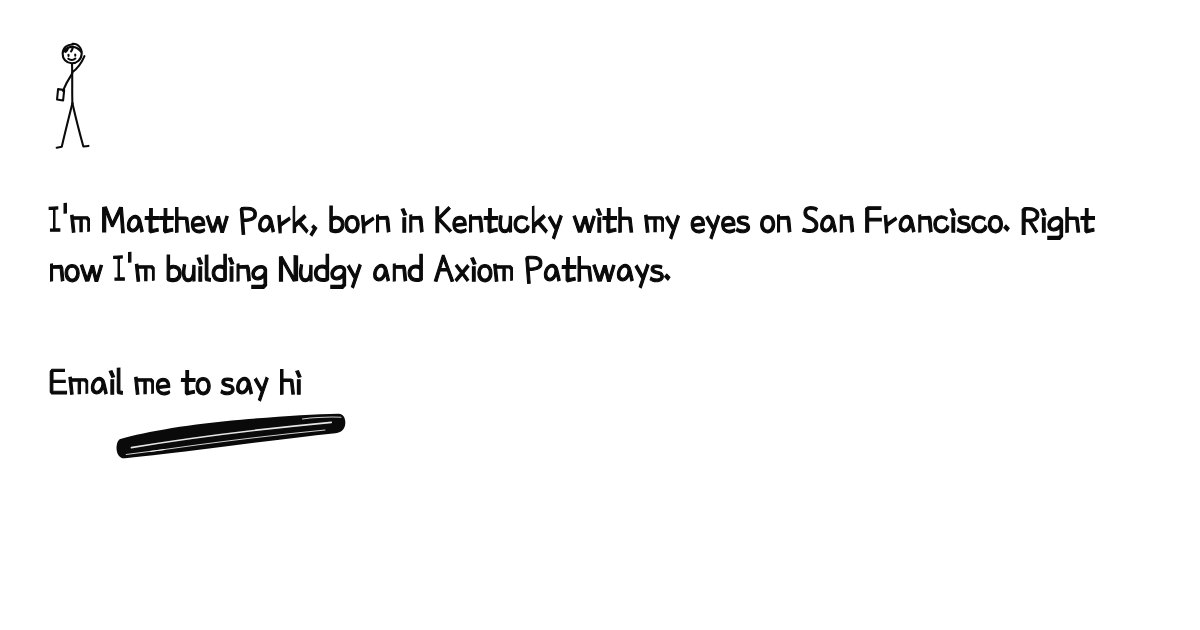
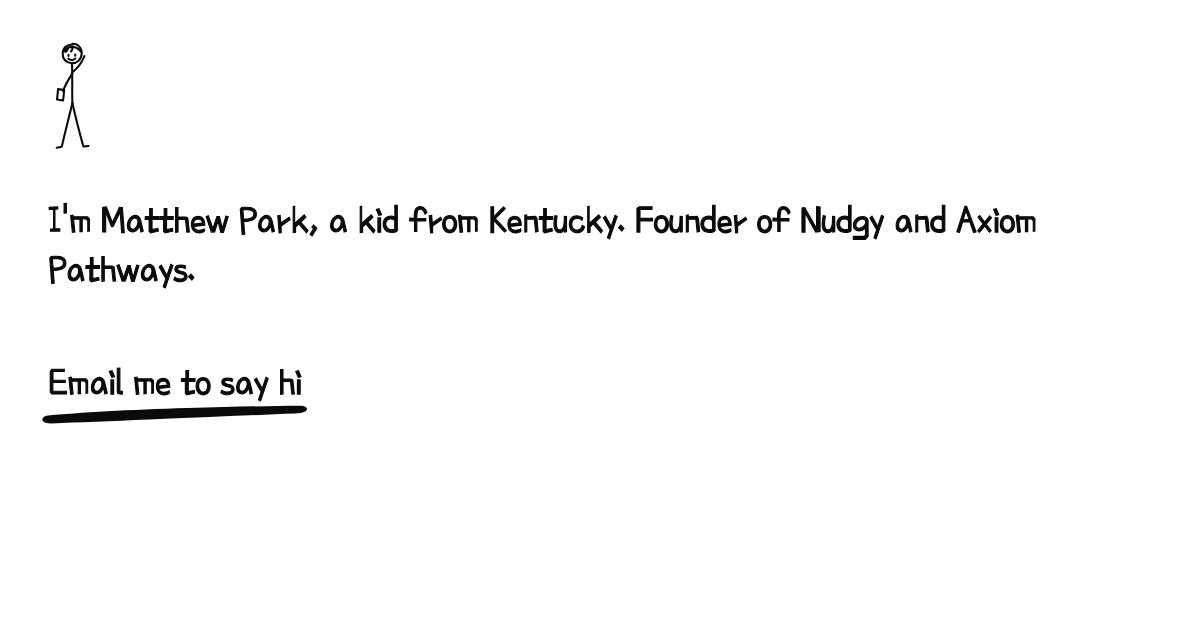
Lead: a 15-year-old kid from Kentucky, founder of Nudgy and Axiom Pathways
The age counts up from his birthday on each visit. The CTA's brush is now
a plain marker swipe under the whole label, clear of the descenders.

Changed region(s): [[0.0308, 0.3317, 0.925, 0.4524], [0.0308, 0.6333, 0.3083, 0.7238]]

diff --git a/src/simple/content.js b/src/simple/content.js
@@ -7,8 +7,22 @@ export const EMAIL = 'matthew.parkk0@gmail.com'
 // written out the way Instinct and Noah Shinn do it, so scrapers skip it
 export const EMAIL_SPOKEN = 'matthew.parkk0[at]gmail[dot]com'
 
-export const lead =
-  "I'm Matthew Park, born in Kentucky with my eyes on San Francisco. I build things people use, and right now I'm building two of them."
+const BIRTHDAY = new Date(2010, 9, 12) // 12 Oct 2010
+
+// counted on each visit, so "15-year-old" turns 16 on its own
+function ageToday(now = new Date()) {
+  const hadBirthday =
+    now.getMonth() > BIRTHDAY.getMonth() ||
+    (now.getMonth() === BIRTHDAY.getMonth() && now.getDate() >= BIRTHDAY.getDate())
+  return now.getFullYear() - BIRTHDAY.getFullYear() - (hadBirthday ? 0 : 1)
+}
+
+export const AGE = ageToday()
+
+export const lead = `I'm Matthew Park, a ${AGE}-year-old kid from Kentucky. Founder of Nudgy and Axiom Pathways.`
+
+// the same line for B's Contact block, where his name is already the heading
+export const tagline = `A ${AGE}-year-old kid from Kentucky. Founder of Nudgy and Axiom Pathways.`
 
 export const building = [
   {

diff --git a/src/simple/Doodles.jsx b/src/simple/Doodles.jsx
@@ -44,8 +44,7 @@ export function SelfDoodle({ className = '' }) {
   )
 }
 
-// A marker swipe: thick in the middle, tapered at the ends, with a few dry
-// streaks of paper showing through, like a marker running dry.
+// A marker swipe: thick in the middle, tapered at the ends.
 export function Brush({ className = '' }) {
   return (
     <span className={`brush ${className}`} aria-hidden="true">
@@ -54,10 +53,6 @@ export function Brush({ className = '' }) {
           className="brush-ink"
           d="M10 26C60 18 140 12 230 10C300 8.5 360 8 406 9C415 9.5 419 16 416 24C413 30 406 32 398 32.5C330 35 250 39 170 43C110 46 60 48 18 49.5C7 50 2 42 4 34C5 30 7 27.5 10 26Z"
         />
-        <path className="brush-dry" d="M30 37C120 30 250 23 392 19" />
-        <path className="brush-dry brush-dry--thin" d="M64 43C160 37 280 31 380 28" />
-        <path className="brush-dry brush-dry--thin" d="M340 13C365 12 390 12 410 13.5" />
-        <path className="brush-dry brush-dry--thin" d="M20 45C40 44 60 43 90 41.5" />
       </svg>
     </span>
   )

diff --git a/index.html b/index.html
@@ -12,10 +12,10 @@
     <title>Matthew Park</title>
     <meta
       name="description"
-      content="Matthew Park, born in Kentucky with his eyes on San Francisco. Building Nudgy, an iPhone assistant that listens to your day, and Axiom Pathways, a nonprofit getting high schoolers into startup internships."
+      content="Matthew Park, a kid from Kentucky. Founder of Nudgy, an iPhone assistant that listens to your day, and Axiom Pathways, a nonprofit getting high schoolers into startup internships."
     />
     <meta property="og:title" content="Matthew Park" />
-    <meta property="og:description" content="Building Nudgy and Axiom Pathways." />
+    <meta property="og:description" content="Founder of Nudgy and Axiom Pathways." />
     <meta property="og:type" content="website" />
     <meta property="og:url" content="https://matthewnpark.com/" />
     <meta property="og:image" content="https://matthewnpark.com/og-simple.jpg" />

diff --git a/src/simple/simple.css b/src/simple/simple.css
@@ -134,19 +134,6 @@ body {
   fill: var(--ink);
 }
 
-.brush-dry {
-  fill: none;
-  stroke: var(--paper);
-  stroke-width: 2;
-  stroke-linecap: round;
-  opacity: 0.9;
-}
-
-.brush-dry--thin {
-  stroke-width: 1.2;
-  opacity: 0.8;
-}
-
 .drawn-link {
   position: relative;
   display: inline-block;
@@ -286,7 +273,7 @@ body {
   position: relative;
   display: flex;
   width: fit-content;
-  padding-bottom: 0.4em;
+  padding-bottom: 0.5em;
 }
 
 .sa-cta-label {
@@ -296,11 +283,15 @@ body {
 
 .sa-cta-brush {
   position: absolute;
-  top: 84%;
-  left: 26%;
-  width: 92%;
-  rotate: -3deg;
+  top: 1.18em; /* clear of the descenders in "say" */
+  left: -3%;
+  width: 106%;
+  rotate: -1deg;
   pointer-events: none;
+}
+
+.sa-cta-brush .brush-svg {
+  height: 0.46em;
 }
 
 .sa-legal {

diff --git a/src/simple/HomeB.jsx b/src/simple/HomeB.jsx
@@ -1,5 +1,5 @@
 import { SelfDoodle, DrawnLink } from './Doodles'
-import { NAME, EMAIL, EMAIL_SPOKEN, building, about, before, socials } from './content'
+import { NAME, EMAIL, EMAIL_SPOKEN, tagline, building, about, before, socials } from './content'
 
 // B: Noah Shinn's page, written by hand. Plain document order (name, photo,
 // Contact, Building, About, Before), default-ish HTML rhythm, every word in
@@ -27,7 +27,7 @@ export default function HomeB() {
         <section className="sb-section" aria-labelledby="sb-contact">
           <h2 id="sb-contact">Contact</h2>
           <p>
-            Born in Kentucky, eyes on San Francisco
+            {tagline}
             <br />
             Email: <DrawnLink href={`mailto:${EMAIL}`}>{EMAIL_SPOKEN}</DrawnLink>
           </p>
